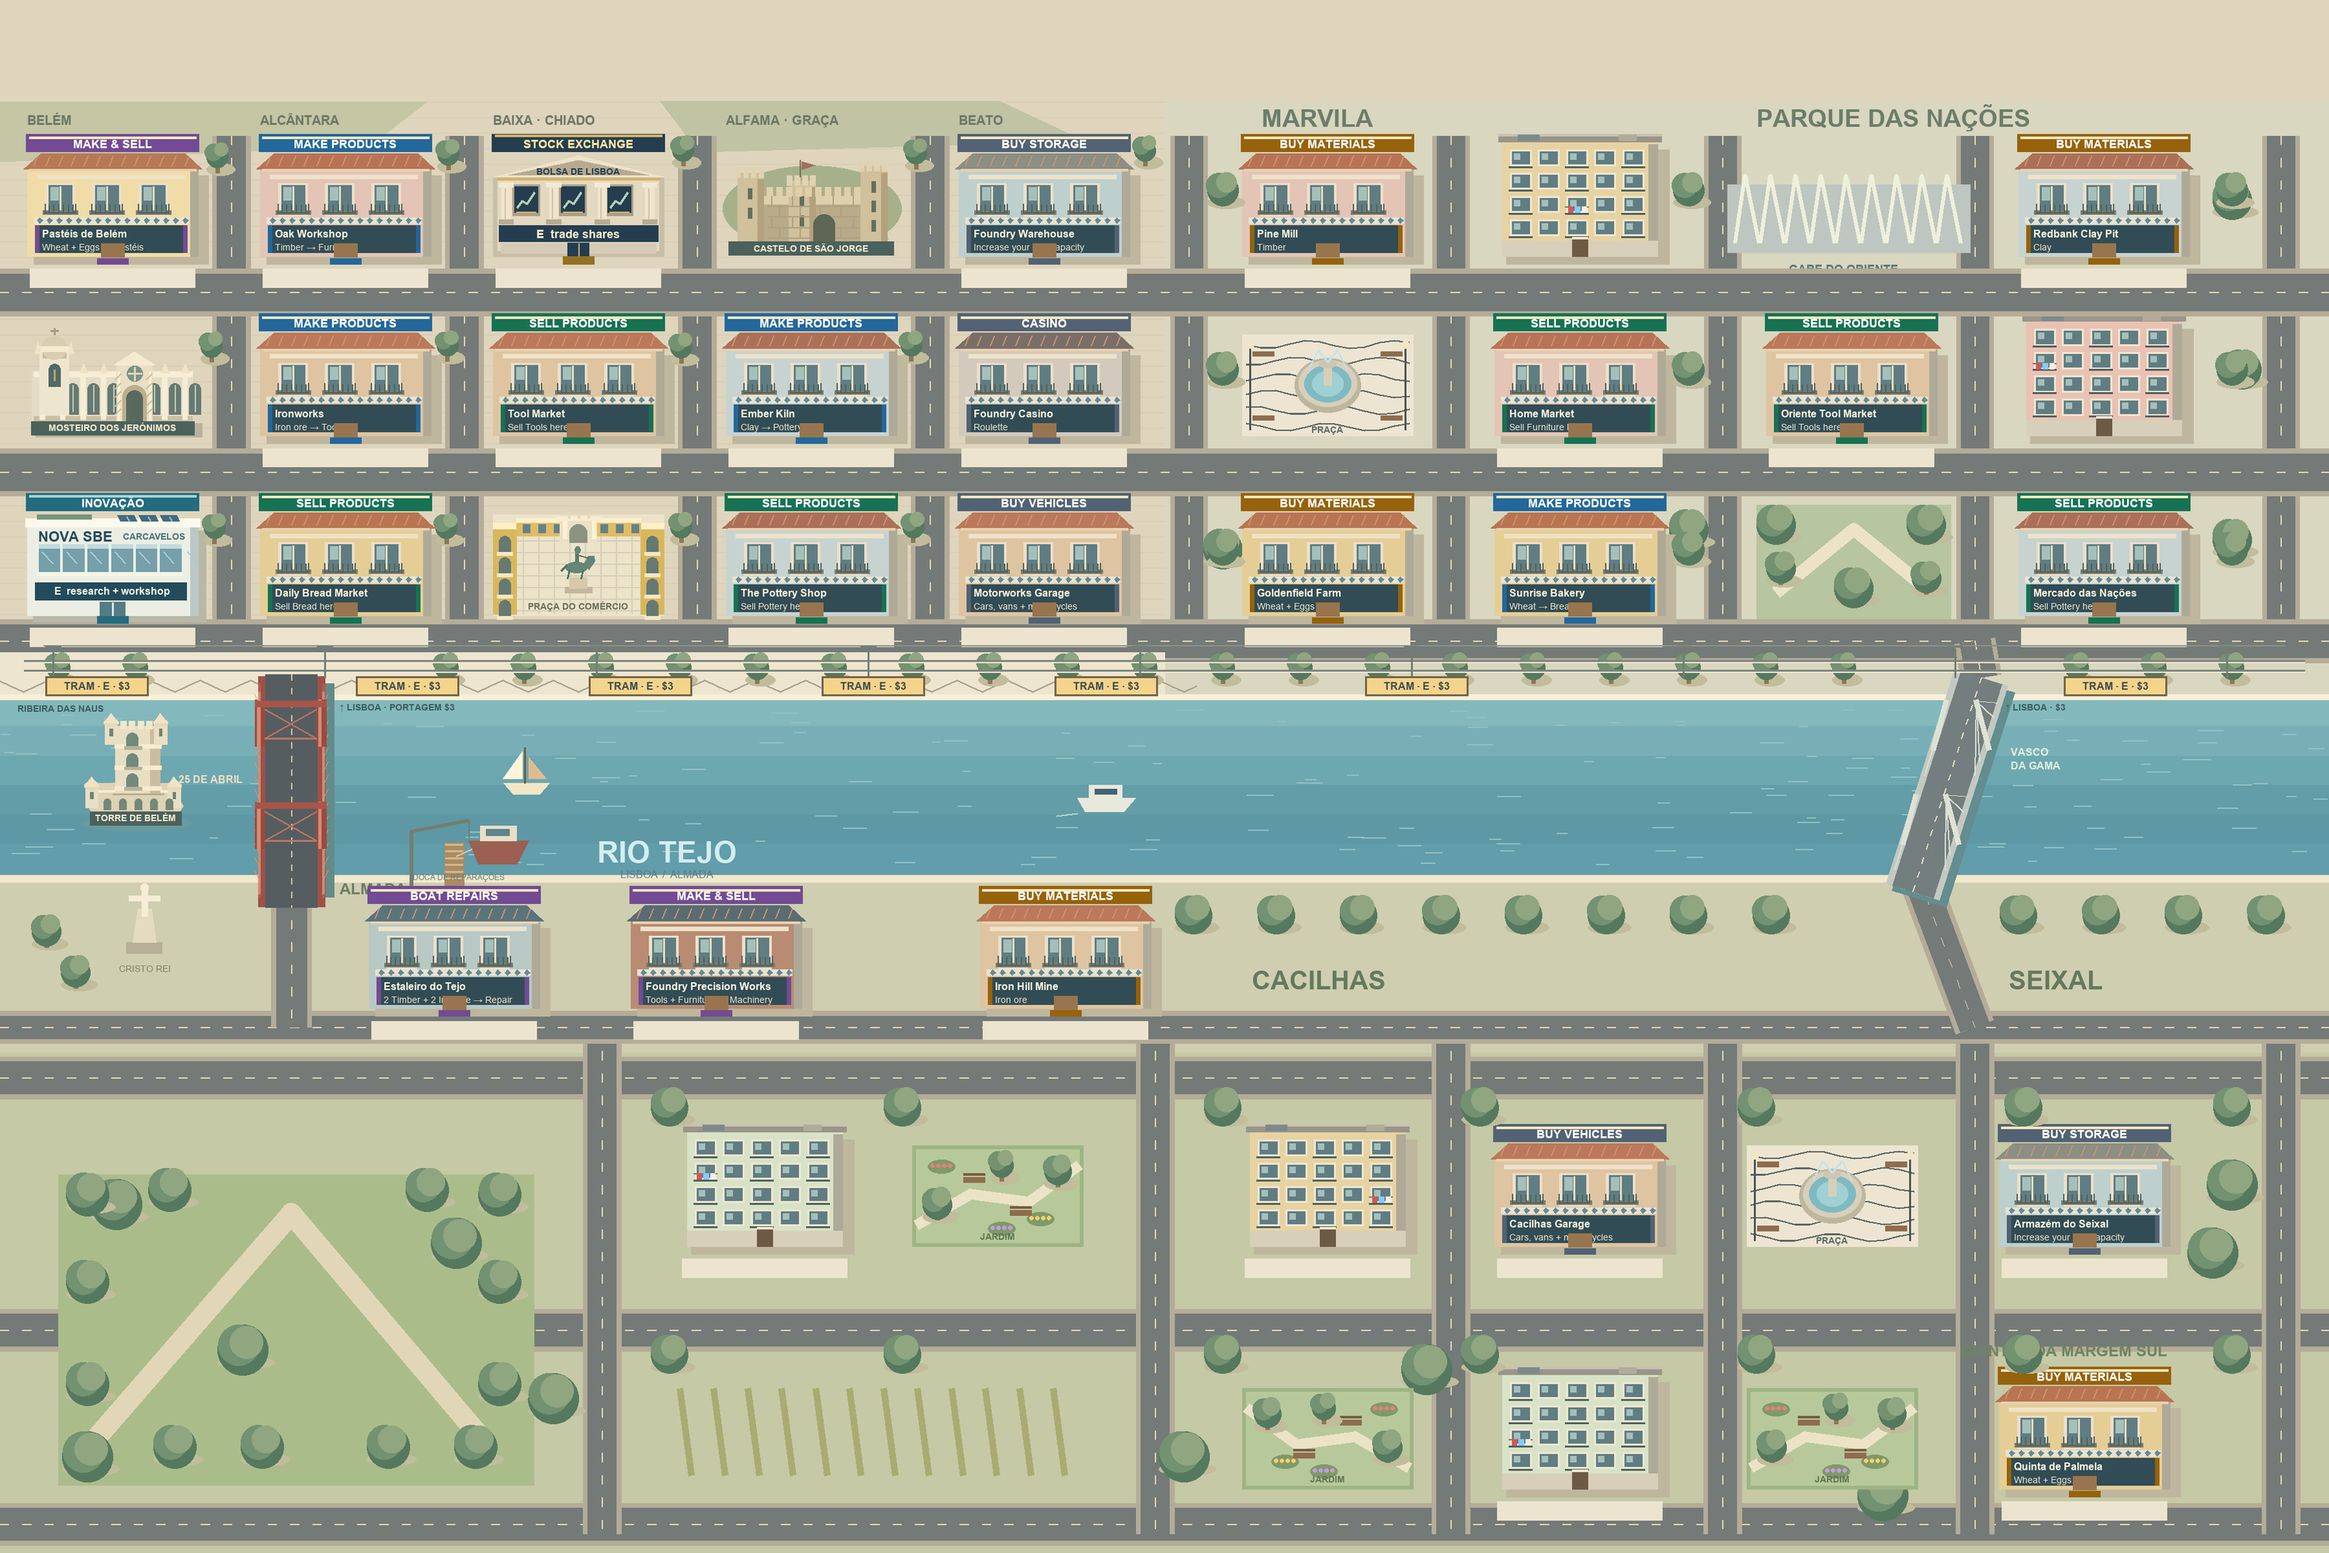
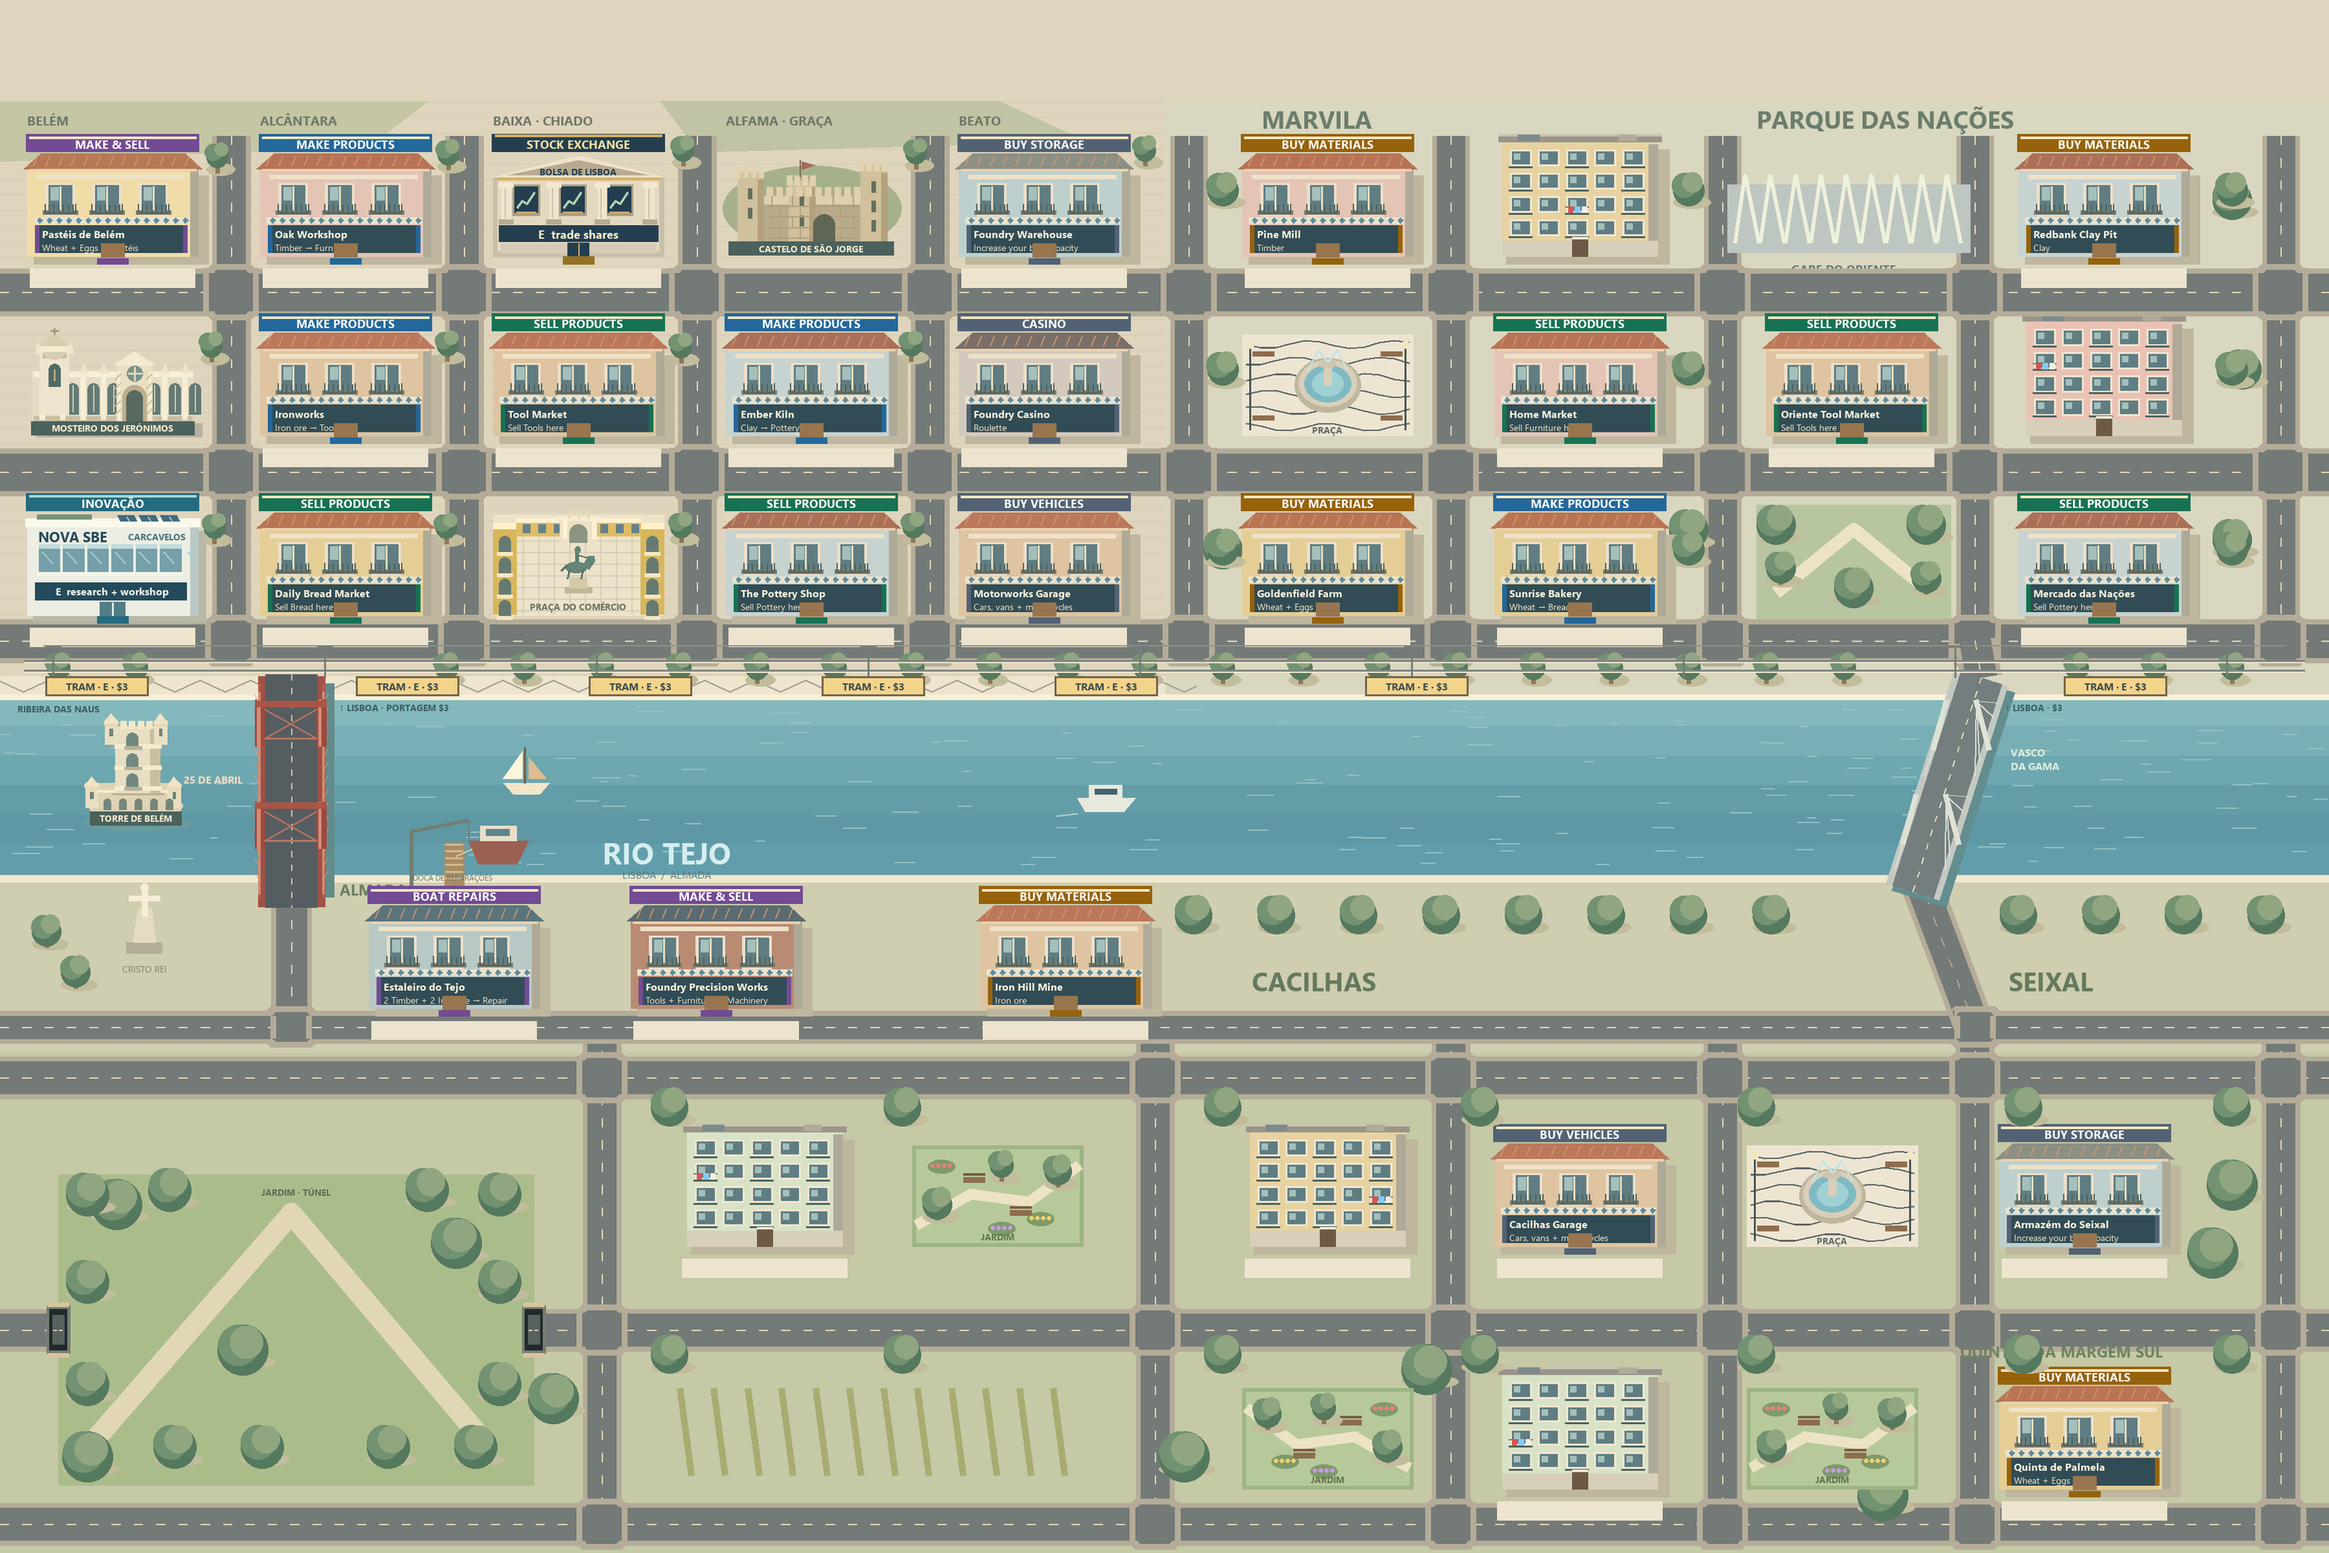
Fix street junctions and add garden tunnel

diff --git a/lisbon_scene.py b/lisbon_scene.py
@@ -17,6 +17,9 @@ SCENERY_PLOTS = (
 )
 FOUNTAIN_BASIN = (58, 26, 118, 74)  # Inside the 176 x 104 plot
 # Solid footprints: whole apartment blocks and fountain basins. Parks are walkable.
+SOUTH_PARK_BOUNDS = (60, 1210, 550, 1530)
+# A covered east-west roadway passes beneath the south-bank garden.
+SOUTH_PARK_TUNNEL = (45, 565, 1370, 17)
 SCENERY_BLOCKS = tuple(
     (x, y, x+176, y+104) if kind == "flats"
     else (x+FOUNTAIN_BASIN[0], y+FOUNTAIN_BASIN[1], x+FOUNTAIN_BASIN[2], y+FOUNTAIN_BASIN[3])
@@ -89,6 +92,27 @@ class LisbonScene:
         self.line(points, "#747a77", width, capstyle="round", joinstyle="round")
         self.line(points, "#e4d8b9", 1, dash=(9, 14))
 
+    @staticmethod
+    def _cross_outline(x, y, vertical_half, horizontal_half, bevel):
+        """A beveled plus-shaped road/curb outline for a clean four-way junction."""
+        v, h, b = vertical_half, horizontal_half, bevel
+        reach = h+b
+        return (x-v, y-reach, x+v, y-reach,
+                x+v+b, y-h,
+                x+reach, y-h, x+reach, y+h,
+                x+v+b, y+h, x+v, y+reach,
+                x+v, y+reach, x-v, y+reach,
+                x-v-b, y+h,
+                x-reach, y+h, x-reach, y-h,
+                x-v-b, y-h, x-v, y-reach)
+
+    def road_junction(self, x, y, vertical_width, horizontal_width):
+        """Unify the curb and asphalt where perpendicular streets meet."""
+        outer_v, outer_h = vertical_width/2+5, horizontal_width/2+5
+        inner_v, inner_h = vertical_width/2, horizontal_width/2
+        self.poly(self._cross_outline(x, y, outer_v, outer_h, 4), "#b4ac98")
+        self.poly(self._cross_outline(x, y, inner_v, inner_h, 3), "#747a77")
+
     def draw(self):
         self.rect(0, 104, WORLD_WIDTH, WORLD_BOTTOM, "#dfd5bd")
         self.expanded_north()
@@ -102,8 +126,13 @@ class LisbonScene:
         for y in (301, 486):
             self.road((0, y, WORLD_WIDTH, y), 39)
         self.road((0, 660, WORLD_WIDTH, 660), 35)
+        verticals = tuple((x, 30 if x < 1200 else 29) for x in
+                          (238, 478, 718, 958, 1225, 1495, 1775, VASCO_NORTH_X, 2350))
+        for x, vertical_width in verticals:
+            for y, horizontal_width in ((301, 39), (486, 39), (660, 35)):
+                self.road_junction(x, y, vertical_width, horizontal_width)
         # Baixa's broad calçada waterfront, with wave patterns.
-        self.rect(0, 672, 1200, RIVER_TOP, "#eee5cf")
+        self.rect(0, 697, 1200, RIVER_TOP, "#eee5cf")
         for x in range(-15, 1220, 52):
             self.line((x, 707, x+13, 701, x+26, 707, x+39, 713, x+52, 707), "#a5a294", 2, smooth=True)
         for name, x in (("BELÉM", 28), ("ALCÂNTARA", 268), ("BAIXA · CHIADO", 508),
@@ -268,18 +297,23 @@ class LisbonScene:
         self.rect(0, 1085, WORLD_WIDTH, WORLD_BOTTOM, "#c5c9a6")
         for y in (1110, 1370, 1570):
             self.road((0, y, WORLD_WIDTH, y), 34)
-        for x in (620, 1190, 1495, 1775, VASCO_NORTH_X, 2350):
+        south_verticals = (620, 1190, 1495, 1775, VASCO_NORTH_X, 2350)
+        for x in south_verticals:
             self.road((x, 1060, x, 1580), 30)
+        for x in south_verticals:
+            for y, horizontal_width in ((1110, 34), (1370, 34), (1570, 34)):
+                self.road_junction(x, y, 30, horizontal_width)
         self.text(1290, 1010, "CACILHAS", 20, "#65795e", True)
         self.text(2070, 1010, "SEIXAL", 20, "#65795e", True)
         self.text(2020, 1392, "QUINTAS DA MARGEM SUL", 12, "#708461", True)
-        self.rect(60, 1210, 550, 1530, "#abbc8b")
+        self.rect(*SOUTH_PARK_BOUNDS, "#abbc8b")
         self.line((100, 1480, 300, 1250, 495, 1480), "#e1d7b6", 22, smooth=True)
         for x in range(700, 1100, 35):
             self.line((x, 1430, x+12, 1520), "#aaab71", 7)
         for x, y in ((120, 1250), (250, 1400), (470, 1290), (90, 1510), (1470, 1420),
                      (1940, 1550), (2280, 1300), (2300, 1230), (1220, 1510), (570, 1450)):
             self.tree(x, y, 26)
+        self.south_park_tunnel()
         self.residential_blocks(north=False)
 
     def night_lighting(self):
@@ -373,6 +407,8 @@ class LisbonScene:
         self.road((0, 1058, WORLD_WIDTH, 1058), 24)
         self.road((300, 902, 300, 1058), 32)
         self.road((bridge_center(902, True), 902, VASCO_NORTH_X, 1058), 32)
+        self.road_junction(300, 1058, 32, 24)
+        self.road_junction(VASCO_NORTH_X, 1058, 32, 24)
         self.text(350, 916, "ALMADA", 12, "#6c7f65", True)
         if any(site.role == "SHIPYARD" for site in self.sites):
             self.rect(458, 868, 478, 912, "#aa8b63")
@@ -397,6 +433,18 @@ class LisbonScene:
         for site in self.sites:
             if site.y >= RIVER_BOTTOM:
                 self.building(site)
+
+    def south_park_tunnel(self):
+        """Mark the covered road portals at either edge of the central garden."""
+        left, right, center_y, _ = SOUTH_PARK_TUNNEL
+        for x in (SOUTH_PARK_BOUNDS[0], SOUTH_PARK_BOUNDS[2]):
+            self.rect(x-12, center_y-25, x+12, center_y+25, "#777d73")
+            self.rect(x-9, center_y-21, x+9, center_y+21, "#202a2b")
+            self.rect(x-6, center_y-15, x+6, center_y+15, "#59615f")
+            self.line((x-5, center_y, x+5, center_y), "#dfd0aa", 1, dash=(3, 3))
+            self.rect(x-11, center_y-28, x+11, center_y-24, "#d7c59e")
+            self.rect(x-11, center_y+24, x+11, center_y+28, "#d7c59e")
+        self.text((left+right)/2, SOUTH_PARK_BOUNDS[1]+18, "JARDIM · TÚNEL", 7, "#5e6c54", True, "center")
 
     def suspension_bridge(self):
         self.line((308, 704, 308, 924), "#638b8a", 72)

diff --git a/vehicles.py b/vehicles.py
@@ -1,7 +1,8 @@
 """Vehicle costs, reusable trunk capacity and the town's painted road network."""
 from dataclasses import dataclass
 
-from lisbon_scene import WORLD_WIDTH, VASCO_NORTH_X, bridge_center
+from lisbon_scene import (WORLD_WIDTH, VASCO_NORTH_X, bridge_center,
+                          SOUTH_PARK_BOUNDS, SOUTH_PARK_TUNNEL)
 
 
 @dataclass(frozen=True)
@@ -22,7 +23,19 @@ VEHICLES = {
 WALK_SPEED = 228
 # City traffic outpaces a walking player, even one with the 1.5x speed power-up.
 CAR_SPEED_RANGE = (360, 440)
-ROAD_EXCLUSIONS = ((60, 1210, 550, 1530), (1810, 520, 2010, 640))
+ROAD_EXCLUSIONS = (SOUTH_PARK_BOUNDS, (1810, 520, 2010, 640))
+
+
+def tunnel_covers_y(y):
+    """Whether a lane center runs inside the covered south-bank underpass."""
+    _, _, center_y, half_width = SOUTH_PARK_TUNNEL
+    return abs(y-center_y) <= half_width
+
+
+def in_tunnel(x, y):
+    """Whether a point is on the playable tunnel road below the central park."""
+    left, right, center_y, half_width = SOUTH_PARK_TUNNEL
+    return left <= x <= right and abs(y-center_y) <= half_width
 
 # Center lines and half-widths match LisbonScene's paved lanes. Pavements,
 # parks and the tram promenade do not grant the driving speed bonus.
@@ -43,7 +56,8 @@ ROAD_SEGMENTS = (
 
 def on_road(x, y, blocked=()):
     """Test actual lane width; collision footprints take priority over paint."""
-    if any(left < x < right and top < y < bottom for left, top, right, bottom in ROAD_EXCLUSIONS):
+    if any(left < x < right and top < y < bottom and not in_tunnel(x, y)
+           for left, top, right, bottom in ROAD_EXCLUSIONS):
         return False
     if any(left < x < right and top < y < bottom for left, top, right, bottom in blocked):
         return False

diff --git a/living_world.py b/living_world.py
@@ -8,7 +8,8 @@ import time
 import tkinter as tk
 from types import SimpleNamespace
 
-from lisbon_scene import LisbonScene, WORLD_WIDTH, WORLD_BOTTOM, RIVER_TOP, RIVER_BOTTOM, bridge_center, draw_character
+from lisbon_scene import (LisbonScene, WORLD_WIDTH, WORLD_BOTTOM, RIVER_TOP, RIVER_BOTTOM,
+                          bridge_center, draw_character, SOUTH_PARK_BOUNDS)
 from windows_canvas import world_canvas
 from lisbon_landmarks import LANDMARKS
 from wayfinding import STAGES, site_guide
@@ -16,7 +17,7 @@ from guidance import compass, next_step
 from tram import TRAM_STOPS
 from logistics_view import FleetView
 from business_signs import BusinessSigns
-from vehicles import CAR_SPEED_RANGE, ROAD_EXCLUSIONS
+from vehicles import CAR_SPEED_RANGE, ROAD_EXCLUSIONS, tunnel_covers_y
 
 WORLD_TOP = 104
 STATUS_LABEL_RADIUS = 360
@@ -190,7 +191,8 @@ class LivingWorld:
                                    WORLD_BOTTOM-38, WORLD_BOTTOM-22)):
             # Lanes that would cross a park or plaza start beside it instead.
             start_x = max([15] + [right+20 for left, top, right, bottom in ROAD_EXCLUSIONS
-                                  if top < y < bottom])
+                                  if top < y < bottom
+                                  and not (left == SOUTH_PARK_BOUNDS[0] and tunnel_covers_y(y))])
             # Each paired road has traffic flowing in opposite directions.
             phase_and_direction = rng.random() + (index % 2)
             self.actor("car", (start_x, y), (WORLD_WIDTH-20, y), rng.uniform(*CAR_SPEED_RANGE),

diff --git a/test_living_world.py b/test_living_world.py
@@ -4,7 +4,7 @@ import unittest
 from living_world import AmbientActor, Camera, LivingWorld, WORLD_TOP
 from lisbon_scene import WORLD_WIDTH, WORLD_BOTTOM, SCENERY_BLOCKS, bridge_center
 from tycoon import SITES, Town, pack_save, unpack_save
-from vehicles import ROAD_EXCLUSIONS, WALK_SPEED
+from vehicles import ROAD_EXCLUSIONS, WALK_SPEED, in_tunnel
 
 
 class CameraTest(unittest.TestCase):
@@ -118,7 +118,17 @@ class ExpandedWorldTest(unittest.TestCase):
                 y = car.start[1]+(car.end[1]-car.start[1])*step/200
                 for left, top, right, bottom in ROAD_EXCLUSIONS:
                     # Allow for the car's own length (15 world units either side of its center).
-                    self.assertFalse(left-15 < x < right+15 and top < y < bottom, (car.tag, x, y))
+                    inside_exclusion = left-15 < x < right+15 and top < y < bottom
+                    if inside_exclusion:
+                        self.assertTrue(in_tunnel(x, y), (car.tag, x, y))
+
+    def test_paired_traffic_lanes_pass_through_the_south_park_tunnel(self):
+        tunnel_cars = [car for car in self.collect_cars() if 1360 <= car.start[1] <= 1380]
+        self.assertEqual(len(tunnel_cars), 2)
+        for car in tunnel_cars:
+            self.assertEqual(car.start[0], 15)
+            self.assertTrue(in_tunnel(300, car.start[1]))
+            self.assertGreater(car.end[0], 2000)
 
     def test_scenery_and_outer_world_edges_block_walking(self):
         town = Town()

diff --git a/test_lisbon.py b/test_lisbon.py
@@ -2,8 +2,10 @@ from pathlib import Path
 import unittest
 import wave
 
-from lisbon_scene import RIVER_BOTTOM, RIVER_TOP, STREET_TREES, bridge_center
+from lisbon_scene import (RIVER_BOTTOM, RIVER_TOP, STREET_TREES, bridge_center,
+                          SOUTH_PARK_BOUNDS, SOUTH_PARK_TUNNEL)
 from tycoon import SITES, Town, pack_save, unpack_save
+from vehicles import in_tunnel, on_road
 
 
 class LisbonMapTest(unittest.TestCase):
@@ -43,6 +45,16 @@ class LisbonMapTest(unittest.TestCase):
         self.assertEqual((restored.cash, restored.cargo), (234, 2))
         self.assertIsNone(restored.bridge_journey)
         self.assertEqual(restored.tolls_paid_total, 0)
+
+    def test_south_bank_garden_keeps_surface_clear_above_a_drivable_tunnel(self):
+        left, top, right, bottom = SOUTH_PARK_BOUNDS
+        self.assertEqual((left, right), (60, 550))
+        self.assertEqual(SOUTH_PARK_TUNNEL[2], 1370)
+        self.assertTrue(in_tunnel(300, 1370))
+        self.assertTrue(on_road(300, 1370))
+        self.assertFalse(in_tunnel(300, 1320))
+        self.assertFalse(on_road(300, 1320))
+        self.assertTrue(on_road(40, 1370))
 
     def test_every_business_entrance_is_reachable(self):
         town = Town()

diff --git a/test_vehicle_trunks.py b/test_vehicle_trunks.py
@@ -124,12 +124,13 @@ class VehicleTrunkTest(unittest.TestCase):
     def test_road_bonus_uses_paved_lanes_and_both_bridges(self):
         town = Town()
         town.vehicle = "car"
-        for x, y in ((480, 321), (100, 301), (1500, 1110), (bridge_center(800), 800), (bridge_center(800, True), 800)):
+        for x, y in ((480, 321), (100, 301), (1500, 1110), (300, 1370),
+                      (bridge_center(800), 800), (bridge_center(800, True), 800)):
             town.x, town.y = x, y
             with self.subTest(road=(x, y)):
                 self.assertTrue(town.road_bonus_active)
                 self.assertEqual(town.movement_speed, 690)
-        for x, y in ((300, 1250), (300, 1370), (1910, 580), (596, 582), (100, 400), (2028, 210)):
+        for x, y in ((300, 1250), (1910, 580), (596, 582), (100, 400), (2028, 210)):
             town.x, town.y = x, y
             with self.subTest(offroad=(x, y)):
                 self.assertFalse(on_road(x, y, COLLISION_BOUNDS))
